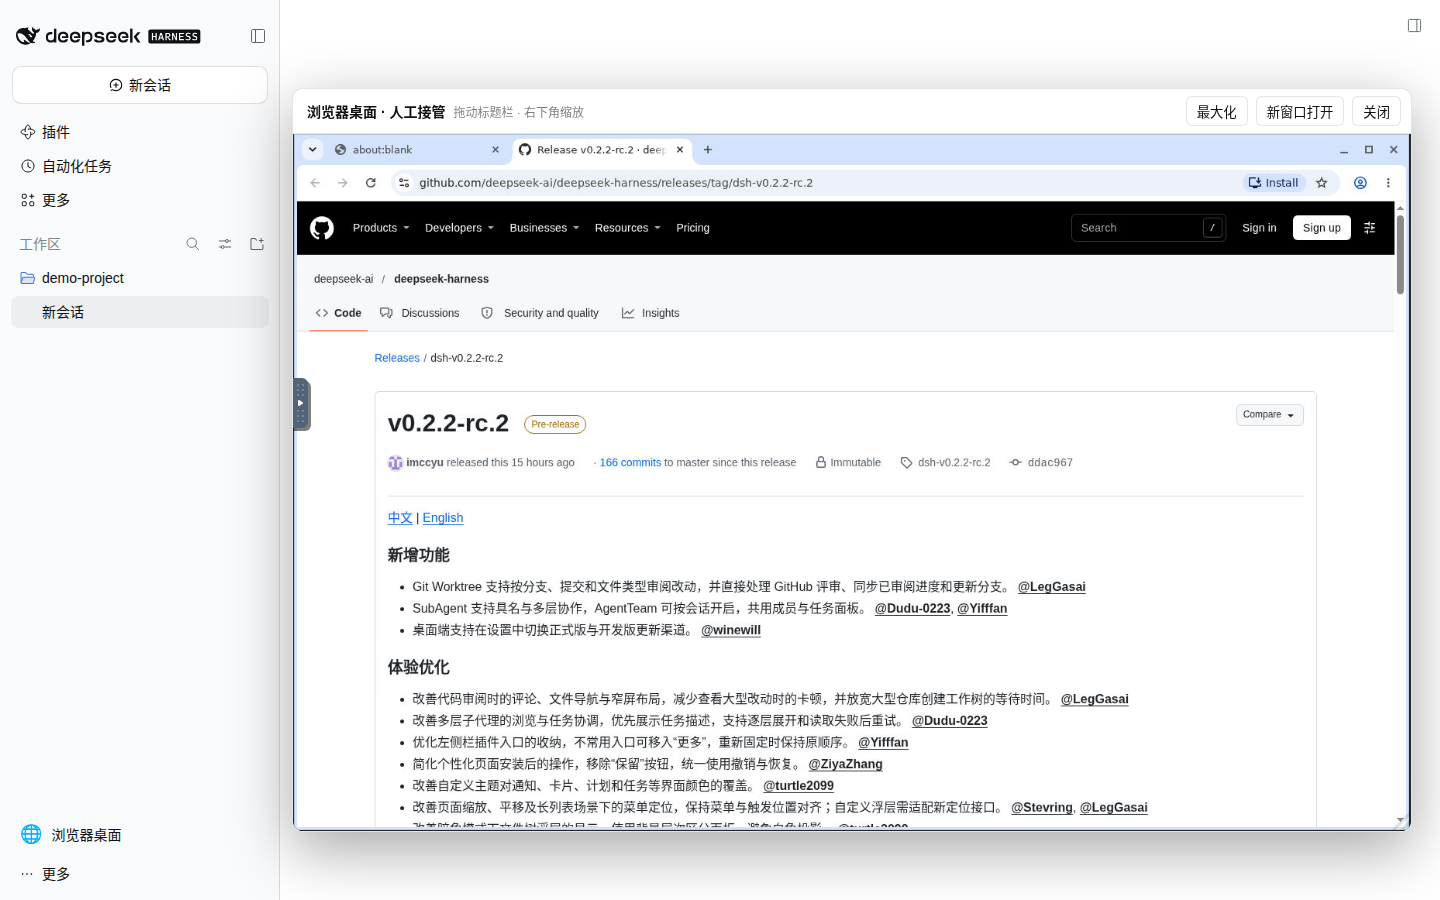
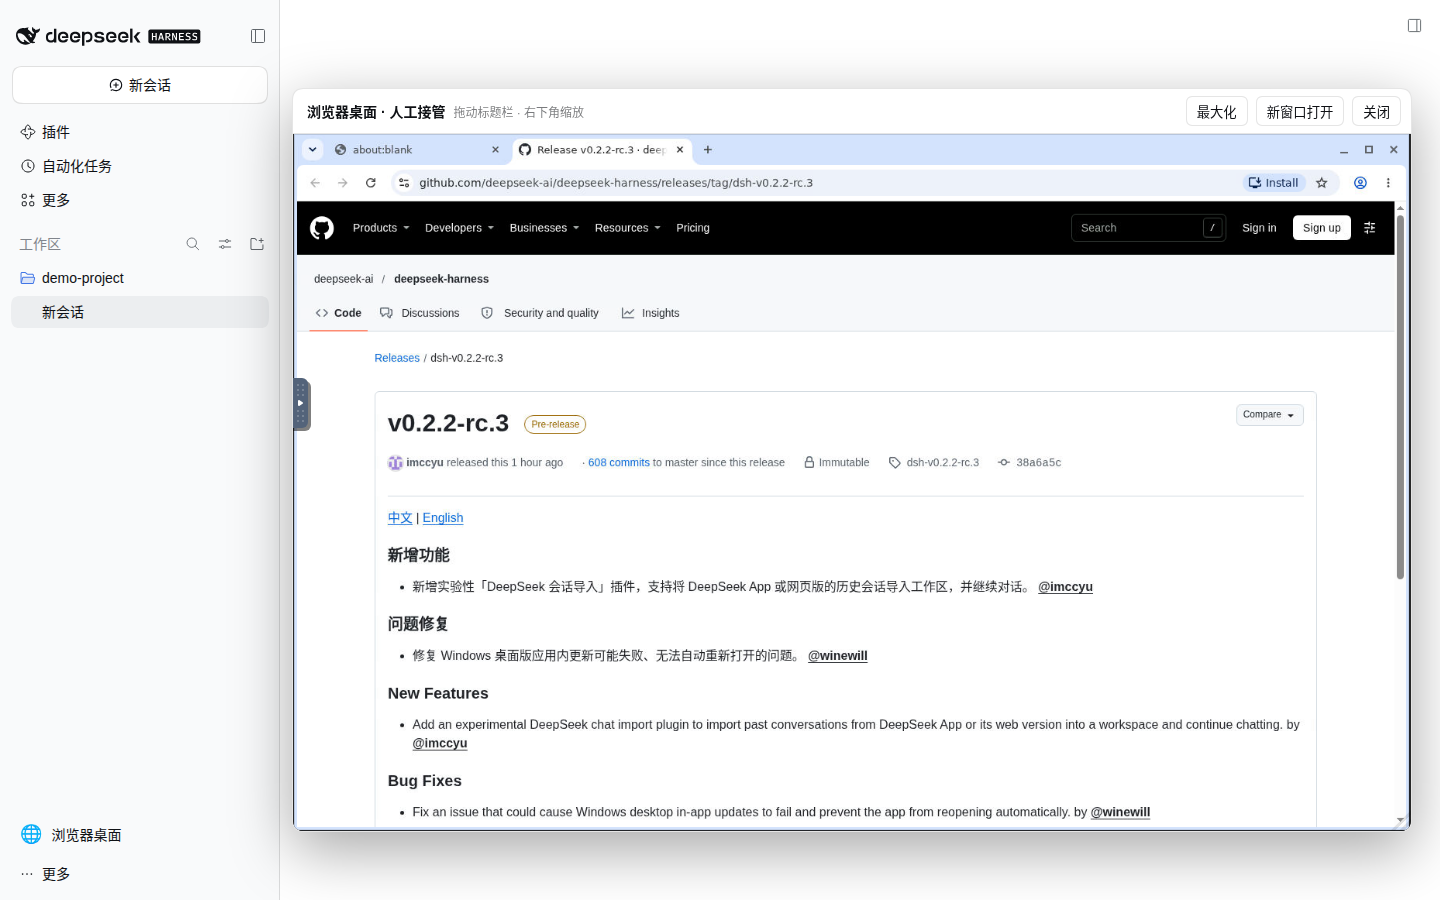
docs: refresh Light screenshots for DSH 0.2.2-rc.3

Changed region(s): [[0.25, 0.6222, 0.9062, 0.9333], [0.375, 0.4978, 0.75, 0.5289], [0.9688, 0.3422, 1.0, 0.6533]]

diff --git a/README.en.md b/README.en.md
@@ -47,7 +47,7 @@ This project packages the official DSH npm distribution into a reproducible Dock
 
 ![DeepSeek Harness Web UI running from this image](assets/deepseek-harness-web.png)
 
-_Light-theme capture (2026-11-12, DSH `0.2.2-rc.2`) from an isolated, empty demo workspace. No personal sessions or credentials are shown. No model was configured and no model call was made._
+_Light-theme capture (2026-11-13, DSH `0.2.2-rc.3`) from an isolated, empty demo workspace. No personal sessions or credentials are shown. No model was configured and no model call was made._
 
 ## Project status
 
@@ -267,7 +267,7 @@ The public plugin uses Harness's `sidebar.footer.action` and `shell.overlay` ext
 
 ![Movable and resizable Chromium browser embedded in the Harness Web UI](assets/browser-desktop-webui.png)
 
-_Light-theme capture (2026-11-12, DSH `0.2.2-rc.2`, browser-desktop plugin `0.1.6`): the browser panel is inside Harness and displays the official 0.2.2-rc.2 GitHub Release page._
+_Light-theme capture (2026-11-13, DSH `0.2.2-rc.3`, browser-desktop plugin `0.1.6`): the browser panel is inside Harness and displays the official 0.2.2-rc.3 GitHub Release page._
 
 This follows the visible-desktop idea from [`docker-antigravity`](https://github.com/runzhliu/docker-antigravity) without adopting its amd64 base or Selkies. Debian's native packages keep the image usable on both Apple Silicon and x86 Linux. The official [Browser Use architecture](https://github.com/deepseek-ai/deepseek-harness/blob/master/docs/subsystems/browser-use.md) and [Sidebar Browser limitations](https://github.com/deepseek-ai/deepseek-harness/blob/master/packages/client/ui-sidebar-browser/README.md) describe the boundary between these layers. Port 6080 is loopback-only like 3080; the native noVNC endpoint has no authentication and must never be exposed directly. The optional LAN overlay carries the versioned `/novnc-*` route through the same HTTPS and authentication boundary as the Web UI.
 
@@ -353,7 +353,7 @@ The variant has the unambiguous `runzhliu/deepseek-harness:0.2.2-rc.3-r1-market.
 
 ![Light-theme community plugin market in the optional market image](assets/plugin-market-webui.png)
 
-_Captured from the optional market image (2026-11-12, DSH `0.2.2-rc.2`, `dshmarket@1.66.9`); this page is absent from the default image. Catalog entries and compatibility indicators change over time. This screenshot shows browsing only; none of the displayed plugins were installed._
+_Captured from the optional market image (2026-11-13, DSH `0.2.2-rc.3`, `dshmarket@1.66.9`); this page is absent from the default image. Catalog entries and compatibility indicators change over time. This screenshot shows browsing only; none of the displayed plugins were installed._
 
 The market package itself is pinned and copied at build time. Plugins installed through it and the pnpm store persist in the `dsh-home` volume. Installation needs container egress to npm/GitHub, and third-party build scripts should remain blocked until separately reviewed and approved. One-click market restart is disabled; apply lifecycle changes with `docker compose restart` or a Kubernetes rollout.
 
